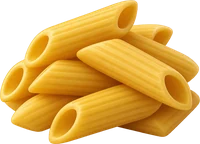
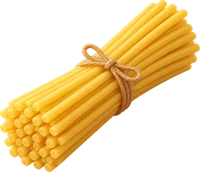
Кухня: картинки ветчины, салатного листа, винограда, голубики; «Паста» — спагетти, как в тарелке
Claude-Session: https://claude.ai/code/session_01EkUPogq5Va4qQG792fJCS6

diff --git a/CLAUDE.md b/CLAUDE.md
@@ -72,10 +72,7 @@ flutter build web --release --base-href /TeddyTales/ --dart-define=RIVE_NATIVE_W
 лист; фруктовый салат: яблоко, банан, клубника, виноград, голубика, без
 йогурта; «Паста» — спагетти, как в тарелке).
 
-⚠ Задача на 05.10: в Higgsfield ещё 5 продуктов — ветчина, салатный лист,
-виноград, голубика, спагетти (вместо перьев) — «да» заказчика 04.10 есть.
-Промты и порядок — `docs/kitchen-todo.md`. Лимит льготного периода ~5 в
-день; при отказе не повторять, сказать заказчику.
+Картинки всех продуктов — в приложении (05.10).
 
 ## Перед публикацией приложения — снять заглушки испытаний
 

diff --git a/docs/kitchen-todo.md b/docs/kitchen-todo.md
@@ -1,6 +1,6 @@
 # Кухня — что осталось (записано 01.10.2026)
 
-## Задача на 05.10: 5 продуктов под утверждённые картинки блюд
+## ~~Задача на 05.10: 5 продуктов под утверждённые картинки блюд~~ — сделано 05.10
 
 Заказчик 04.10: «блюда утверждены, мы их не меняем, подгоняем ингредиенты».
 Рецепты уже переписаны (`lib/game/food.dart`); где нет картинки — эмодзи.
